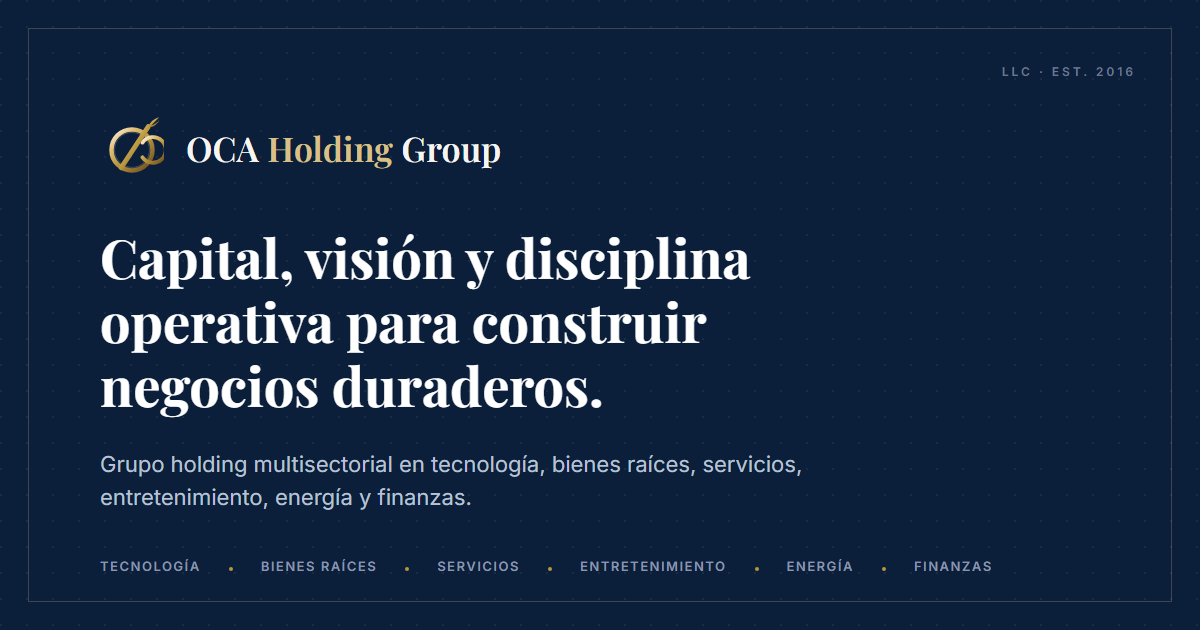
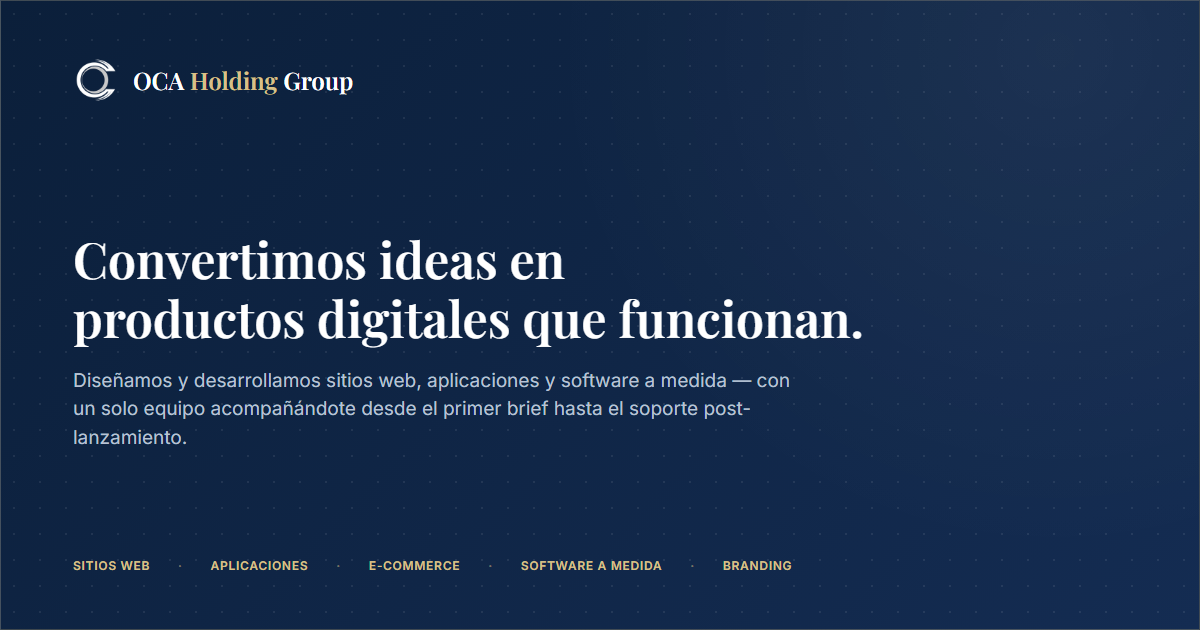
Fix critical SEO issues: dead www canonical domain, stale OG image
SEO audit found two serious issues:

1. Every canonical URL, og:url, JSON-LD url/logo, robots.txt's
   Sitemap directive, and every sitemap.xml <loc> pointed at
   www.ocaholdinggroup.com — which doesn't resolve at all (confirmed:
   connection failure). The www CNAME was deleted months ago when the
   site moved from GitHub Pages to Cloudflare Workers, but nothing
   that referenced it got updated. Declaring an unreachable canonical
   URL on every page is a serious problem for indexing. Replaced every
   www.ocaholdinggroup.com reference with the real apex domain across
   all pages, robots.txt, sitemap.xml, and the Node reference backend.

2. assets/og/oca-og-image.png — the single image used as og:image on
   every page, so what anyone sees when a link is shared on
   WhatsApp/LinkedIn/Slack/X/etc. — was never updated after the
   business repositioning from "multi-sector investment holding" to
   "web dev studio" months ago. It still showed the old gold logo,
   "Capital, visión y disciplina operativa para construir negocios
   duraderos," and the fake sector tags (Tecnología, Bienes Raíces,
   Energía, Finanzas...). Rebuilt it with the current tagline, real
   services, and the new logo.

Also refreshed sitemap.xml lastmod dates (stuck at the original
2026-09-08 launch date despite months of real changes).

diff --git a/index.html b/index.html
@@ -14,15 +14,15 @@
 <title>OCA Holding Group LLC | Desarrollo Web, Aplicaciones y Software a Medida</title>
 <meta name="description" content="OCA Holding Group LLC diseña y desarrolla sitios web, aplicaciones web y móviles, e-commerce y software a medida. Un solo equipo, de principio a fin.">
 <meta name="robots" content="index, follow">
-<link rel="canonical" href="https://www.ocaholdinggroup.com/">
+<link rel="canonical" href="https://ocaholdinggroup.com/">
 
 <!-- Open Graph -->
 <meta property="og:type" content="website">
 <meta property="og:site_name" content="OCA Holding Group LLC">
 <meta property="og:title" content="OCA Holding Group LLC | Desarrollo Web y Software a Medida">
 <meta property="og:description" content="Diseñamos y desarrollamos sitios web, aplicaciones y software a medida — con un portal de clientes para seguir el avance de tu proyecto.">
-<meta property="og:url" content="https://www.ocaholdinggroup.com/">
-<meta property="og:image" content="https://www.ocaholdinggroup.com/assets/og/oca-og-image.png">
+<meta property="og:url" content="https://ocaholdinggroup.com/">
+<meta property="og:image" content="https://ocaholdinggroup.com/assets/og/oca-og-image.png">
 <meta property="og:image:width" content="1200">
 <meta property="og:image:height" content="630">
 <meta property="og:image:type" content="image/png">
@@ -33,7 +33,7 @@
 <meta name="twitter:card" content="summary_large_image">
 <meta name="twitter:title" content="OCA Holding Group LLC">
 <meta name="twitter:description" content="Desarrollo web, aplicaciones y software a medida — de principio a fin.">
-<meta name="twitter:image" content="https://www.ocaholdinggroup.com/assets/og/oca-og-image.png">
+<meta name="twitter:image" content="https://ocaholdinggroup.com/assets/og/oca-og-image.png">
 
 <link rel="preconnect" href="https://fonts.googleapis.com">
 <link rel="preconnect" href="https://fonts.gstatic.com" crossorigin>
@@ -71,8 +71,8 @@
   "name": "OCA Holding Group LLC",
   "legalName": "OCA Holding Group LLC",
   "alternateName": "OCA Holding Group",
-  "url": "https://www.ocaholdinggroup.com/",
-  "logo": "https://www.ocaholdinggroup.com/assets/img/logo-icon.png",
+  "url": "https://ocaholdinggroup.com/",
+  "logo": "https://ocaholdinggroup.com/assets/img/logo-icon.png",
   "description": "OCA Holding Group LLC is a web development and digital services studio building websites, web and mobile applications, e-commerce, and custom software.",
   "address": {
     "@type": "PostalAddress",

diff --git a/nosotros.html b/nosotros.html
@@ -9,14 +9,14 @@
 <title>Nosotros | OCA Holding Group LLC — Equipo de Desarrollo Web y Software</title>
 <meta name="description" content="Conozca la misión, visión, filosofía de trabajo y principios de confidencialidad del equipo de desarrollo de OCA Holding Group LLC.">
 <meta name="robots" content="index, follow">
-<link rel="canonical" href="https://www.ocaholdinggroup.com/nosotros.html">
+<link rel="canonical" href="https://ocaholdinggroup.com/nosotros.html">
 
 <meta property="og:type" content="website">
 <meta property="og:site_name" content="OCA Holding Group LLC">
 <meta property="og:title" content="Nosotros | OCA Holding Group LLC">
 <meta property="og:description" content="Misión, visión, filosofía de trabajo y principios de confidencialidad de OCA Holding Group LLC.">
-<meta property="og:url" content="https://www.ocaholdinggroup.com/nosotros.html">
-<meta property="og:image" content="https://www.ocaholdinggroup.com/assets/og/oca-og-image.png">
+<meta property="og:url" content="https://ocaholdinggroup.com/nosotros.html">
+<meta property="og:image" content="https://ocaholdinggroup.com/assets/og/oca-og-image.png">
 <meta property="og:image:width" content="1200">
 <meta property="og:image:height" content="630">
 <meta property="og:image:type" content="image/png">
@@ -26,7 +26,7 @@
 <meta name="twitter:card" content="summary_large_image">
 <meta name="twitter:title" content="Nosotros | OCA Holding Group LLC">
 <meta name="twitter:description" content="Misión, visión y filosofía de trabajo de OCA Holding Group LLC.">
-<meta name="twitter:image" content="https://www.ocaholdinggroup.com/assets/og/oca-og-image.png">
+<meta name="twitter:image" content="https://ocaholdinggroup.com/assets/og/oca-og-image.png">
 
 <link rel="preconnect" href="https://fonts.googleapis.com">
 <link rel="preconnect" href="https://fonts.gstatic.com" crossorigin>
@@ -61,8 +61,8 @@
   "@context": "https://schema.org",
   "@type": ["Organization", "ProfessionalService"],
   "name": "OCA Holding Group LLC",
-  "url": "https://www.ocaholdinggroup.com/",
-  "logo": "https://www.ocaholdinggroup.com/assets/img/logo-icon.png",
+  "url": "https://ocaholdinggroup.com/",
+  "logo": "https://ocaholdinggroup.com/assets/img/logo-icon.png",
   "description": "OCA Holding Group LLC is a web development and digital services studio, working directly with clients from initial brief through post-launch support.",
   "address": {
     "@type": "PostalAddress",

diff --git a/portafolio.html b/portafolio.html
@@ -15,14 +15,14 @@
 <title>Servicios | OCA Holding Group LLC</title>
 <meta name="description" content="Servicios de OCA Holding Group LLC: sitios web, aplicaciones web y móviles, e-commerce, software a medida y branding digital.">
 <meta name="robots" content="index, follow">
-<link rel="canonical" href="https://www.ocaholdinggroup.com/portafolio.html">
+<link rel="canonical" href="https://ocaholdinggroup.com/portafolio.html">
 
 <meta property="og:type" content="website">
 <meta property="og:site_name" content="OCA Holding Group LLC">
 <meta property="og:title" content="Servicios | OCA Holding Group LLC">
 <meta property="og:description" content="Sitios web, aplicaciones web y móviles, e-commerce, software a medida y branding digital.">
-<meta property="og:url" content="https://www.ocaholdinggroup.com/portafolio.html">
-<meta property="og:image" content="https://www.ocaholdinggroup.com/assets/og/oca-og-image.png">
+<meta property="og:url" content="https://ocaholdinggroup.com/portafolio.html">
+<meta property="og:image" content="https://ocaholdinggroup.com/assets/og/oca-og-image.png">
 <meta property="og:image:width" content="1200">
 <meta property="og:image:height" content="630">
 <meta property="og:image:type" content="image/png">
@@ -32,7 +32,7 @@
 <meta name="twitter:card" content="summary_large_image">
 <meta name="twitter:title" content="Servicios | OCA Holding Group LLC">
 <meta name="twitter:description" content="Sitios web, aplicaciones, e-commerce, software a medida y branding digital.">
-<meta name="twitter:image" content="https://www.ocaholdinggroup.com/assets/og/oca-og-image.png">
+<meta name="twitter:image" content="https://ocaholdinggroup.com/assets/og/oca-og-image.png">
 
 <link rel="preconnect" href="https://fonts.googleapis.com">
 <link rel="preconnect" href="https://fonts.gstatic.com" crossorigin>
@@ -67,7 +67,7 @@
   "@context": "https://schema.org",
   "@type": ["Organization", "ProfessionalService"],
   "name": "OCA Holding Group LLC",
-  "url": "https://www.ocaholdinggroup.com/",
+  "url": "https://ocaholdinggroup.com/",
   "description": "OCA Holding Group LLC provides web development, web and mobile applications, e-commerce, custom software, and digital branding services.",
   "hasOfferCatalog": {
     "@type": "OfferCatalog",

diff --git a/contacto.html b/contacto.html
@@ -12,14 +12,14 @@
 <title>Contacto | OCA Holding Group LLC</title>
 <meta name="description" content="Contacte al equipo de OCA Holding Group LLC para cotizar un proyecto, prensa, alianzas o consultas generales. Sede en Sheridan, Wyoming, EE. UU.">
 <meta name="robots" content="index, follow">
-<link rel="canonical" href="https://www.ocaholdinggroup.com/contacto.html">
+<link rel="canonical" href="https://ocaholdinggroup.com/contacto.html">
 
 <meta property="og:type" content="website">
 <meta property="og:site_name" content="OCA Holding Group LLC">
 <meta property="og:title" content="Contacto | OCA Holding Group LLC">
 <meta property="og:description" content="Cotiza tu proyecto o contacta a nuestro equipo de Prensa, Alianzas o Consultas Generales.">
-<meta property="og:url" content="https://www.ocaholdinggroup.com/contacto.html">
-<meta property="og:image" content="https://www.ocaholdinggroup.com/assets/og/oca-og-image.png">
+<meta property="og:url" content="https://ocaholdinggroup.com/contacto.html">
+<meta property="og:image" content="https://ocaholdinggroup.com/assets/og/oca-og-image.png">
 <meta property="og:image:width" content="1200">
 <meta property="og:image:height" content="630">
 <meta property="og:image:type" content="image/png">
@@ -29,7 +29,7 @@
 <meta name="twitter:card" content="summary_large_image">
 <meta name="twitter:title" content="Contacto | OCA Holding Group LLC">
 <meta name="twitter:description" content="Cotiza tu proyecto o contacta a nuestro equipo.">
-<meta name="twitter:image" content="https://www.ocaholdinggroup.com/assets/og/oca-og-image.png">
+<meta name="twitter:image" content="https://ocaholdinggroup.com/assets/og/oca-og-image.png">
 
 <link rel="preconnect" href="https://fonts.googleapis.com">
 <link rel="preconnect" href="https://fonts.gstatic.com" crossorigin>

diff --git a/noticias.html b/noticias.html
@@ -12,14 +12,14 @@
 <title>Noticias y Comunicados | OCA Holding Group LLC</title>
 <meta name="description" content="Novedades, entregas de proyectos y anuncios del equipo de OCA Holding Group LLC.">
 <meta name="robots" content="index, follow">
-<link rel="canonical" href="https://www.ocaholdinggroup.com/noticias.html">
+<link rel="canonical" href="https://ocaholdinggroup.com/noticias.html">
 
 <meta property="og:type" content="website">
 <meta property="og:site_name" content="OCA Holding Group LLC">
 <meta property="og:title" content="Noticias y Comunicados | OCA Holding Group LLC">
 <meta property="og:description" content="Novedades, entregas de proyectos y anuncios del equipo de OCA Holding Group LLC.">
-<meta property="og:url" content="https://www.ocaholdinggroup.com/noticias.html">
-<meta property="og:image" content="https://www.ocaholdinggroup.com/assets/og/oca-og-image.png">
+<meta property="og:url" content="https://ocaholdinggroup.com/noticias.html">
+<meta property="og:image" content="https://ocaholdinggroup.com/assets/og/oca-og-image.png">
 <meta property="og:image:width" content="1200">
 <meta property="og:image:height" content="630">
 <meta property="og:image:type" content="image/png">
@@ -29,7 +29,7 @@
 <meta name="twitter:card" content="summary_large_image">
 <meta name="twitter:title" content="Noticias y Comunicados | OCA Holding Group LLC">
 <meta name="twitter:description" content="Novedades y anuncios del equipo de OCA Holding Group LLC.">
-<meta name="twitter:image" content="https://www.ocaholdinggroup.com/assets/og/oca-og-image.png">
+<meta name="twitter:image" content="https://ocaholdinggroup.com/assets/og/oca-og-image.png">
 
 <link rel="preconnect" href="https://fonts.googleapis.com">
 <link rel="preconnect" href="https://fonts.gstatic.com" crossorigin>

diff --git a/backend/node-reference/contact-api-node.js b/backend/node-reference/contact-api-node.js
@@ -25,7 +25,7 @@ require("dotenv").config();
 const app = express();
 // Restringido al dominio del sitio — sin esto, cualquier página en internet
 // podría llamar a esta API desde el navegador de un visitante.
-app.use(cors({ origin: process.env.SITE_URL || "https://www.ocaholdinggroup.com", methods: ["GET", "POST"] }));
+app.use(cors({ origin: process.env.SITE_URL || "https://ocaholdinggroup.com", methods: ["GET", "POST"] }));
 
 const supabase = createClient(process.env.SUPABASE_URL, process.env.SUPABASE_SERVICE_ROLE_KEY);
 const resend = new Resend(process.env.RESEND_API_KEY);
@@ -232,7 +232,7 @@ app.post("/api/create-checkout-session", checkoutLimiter, async (req, res) => {
     const { data: userData } = await supabase.auth.admin.getUserById(invoice.client_id);
     const clientEmail = userData && userData.user ? userData.user.email : undefined;
 
-    const siteUrl = process.env.SITE_URL || "https://www.ocaholdinggroup.com";
+    const siteUrl = process.env.SITE_URL || "https://ocaholdinggroup.com";
     const session = await stripe.checkout.sessions.create({
       mode: "payment",
       payment_method_types: ["card"],

diff --git a/privacidad.html b/privacidad.html
@@ -10,7 +10,7 @@
 <title>Política de Privacidad | OCA Holding Group LLC</title>
 <meta name="description" content="Política de Privacidad de OCA Holding Group LLC: qué información recopilamos, cómo la usamos y sus derechos como titular de datos.">
 <meta name="robots" content="index, follow">
-<link rel="canonical" href="https://www.ocaholdinggroup.com/privacidad.html">
+<link rel="canonical" href="https://ocaholdinggroup.com/privacidad.html">
 
 <link rel="preconnect" href="https://fonts.googleapis.com">
 <link rel="preconnect" href="https://fonts.gstatic.com" crossorigin>

diff --git a/terminos.html b/terminos.html
@@ -10,7 +10,7 @@
 <title>Términos de Uso | OCA Holding Group LLC</title>
 <meta name="description" content="Términos de Uso del sitio web de OCA Holding Group LLC, sociedad de responsabilidad limitada (LLC) constituida en Wyoming, Estados Unidos.">
 <meta name="robots" content="index, follow">
-<link rel="canonical" href="https://www.ocaholdinggroup.com/terminos.html">
+<link rel="canonical" href="https://ocaholdinggroup.com/terminos.html">
 
 <link rel="preconnect" href="https://fonts.googleapis.com">
 <link rel="preconnect" href="https://fonts.gstatic.com" crossorigin>

diff --git a/login.html b/login.html
@@ -13,7 +13,7 @@
 <title>Portal de Clientes | OCA Holding Group LLC</title>
 <meta name="description" content="Inicia sesión en el portal de clientes de OCA Holding Group LLC para ver el estado de tu proyecto y tus facturas.">
 <meta name="robots" content="noindex, follow">
-<link rel="canonical" href="https://www.ocaholdinggroup.com/login.html">
+<link rel="canonical" href="https://ocaholdinggroup.com/login.html">
 
 <link rel="preconnect" href="https://fonts.googleapis.com">
 <link rel="preconnect" href="https://fonts.gstatic.com" crossorigin>

diff --git a/dashboard.html b/dashboard.html
@@ -15,7 +15,7 @@
 <title>Mi Panel | OCA Holding Group LLC</title>
 <meta name="description" content="Panel de cliente de OCA Holding Group LLC: estado de tu proyecto, bitácora de avances y facturas.">
 <meta name="robots" content="noindex, nofollow">
-<link rel="canonical" href="https://www.ocaholdinggroup.com/dashboard.html">
+<link rel="canonical" href="https://ocaholdinggroup.com/dashboard.html">
 
 <link rel="preconnect" href="https://fonts.googleapis.com">
 <link rel="preconnect" href="https://fonts.gstatic.com" crossorigin>
